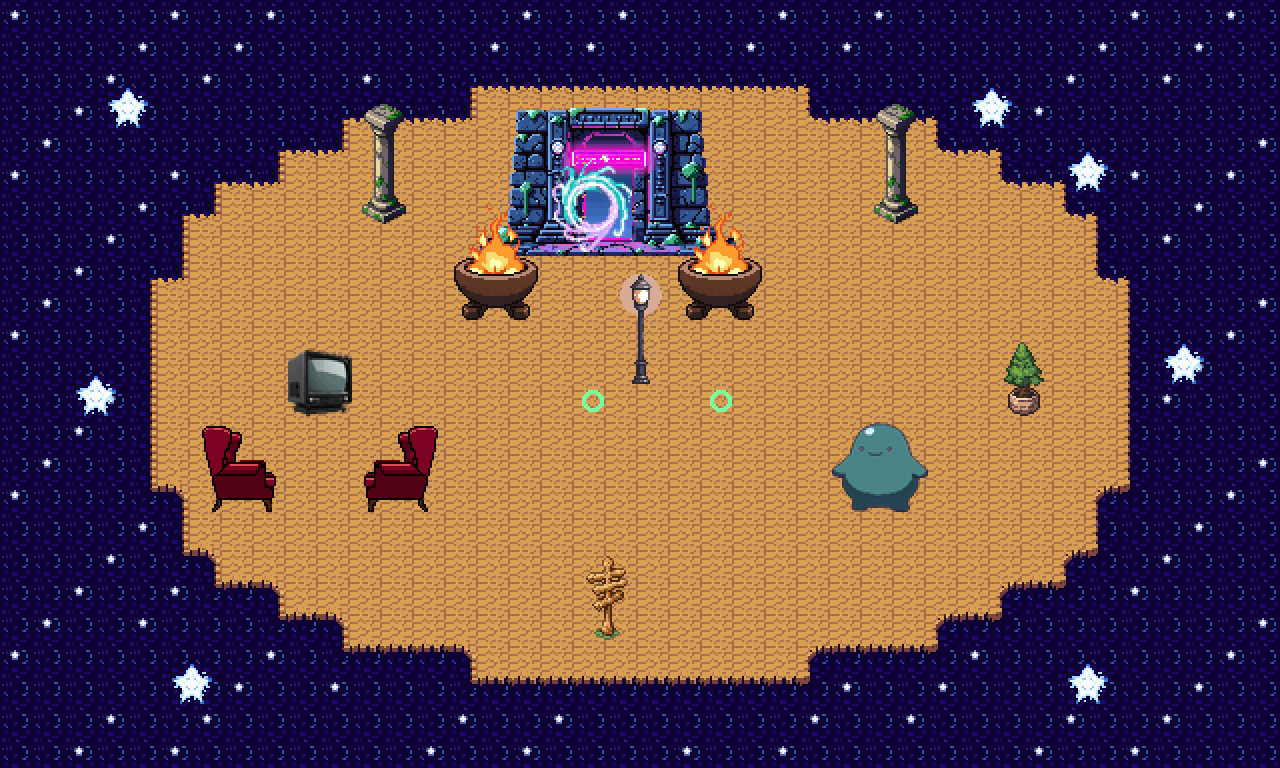
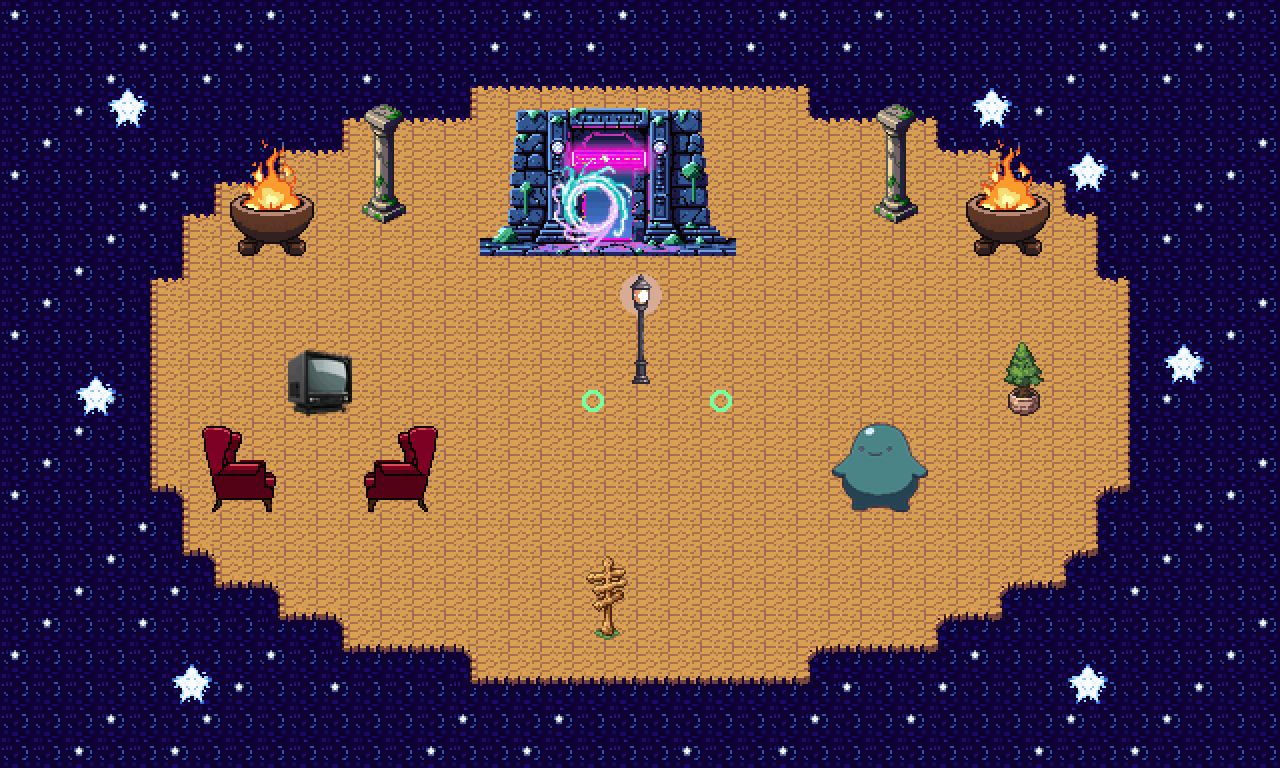
feat(space): spread the braziers beyond the pillars
Move the two braziers out past the pillars and up near the top edge, on
the same line, so the flames rise toward the void and the portal stands
alone as the centrepiece: brazier · pillar · portal · pillar · brazier.

diff --git a/virtual.space/tools/author_scene.py b/virtual.space/tools/author_scene.py
@@ -46,8 +46,8 @@ DECOR = [
     ("eot_pillar", 27, 3),
     ("eot_artifact", 15, 3),
     ("eot_portal", 17, 5),
-    ("eot_fire", 14, 6),
-    ("eot_fire", 21, 6),
+    ("eot_fire", 7, 4),
+    ("eot_fire", 30, 4),
     ("eot_lamp", 19, 8),
     ("eot_tv", 9, 10),
     ("eot_armchair", 6, 13),
@@ -60,7 +60,7 @@ DECOR = [
 SOLID = [(11, 6, 2, 1), (27, 6, 2, 1), (31, 12, 2, 1),
          (18, 19, 1, 1), (19, 11, 2, 1),
          (6, 15, 3, 1), (11, 15, 3, 1), (9, 12, 2, 1),
-         (26, 15, 3, 1), (16, 7, 6, 1), (14, 9, 3, 1), (21, 9, 3, 1)]
+         (26, 15, 3, 1), (16, 7, 6, 1), (7, 7, 3, 1), (30, 7, 3, 1)]
 SPAWN = [{"x": 18, "y": 12, "dir": "right"}, {"x": 22, "y": 12, "dir": "left"}]
 
 # Animated props: real PixelLab object animations. name -> (frames folder under
